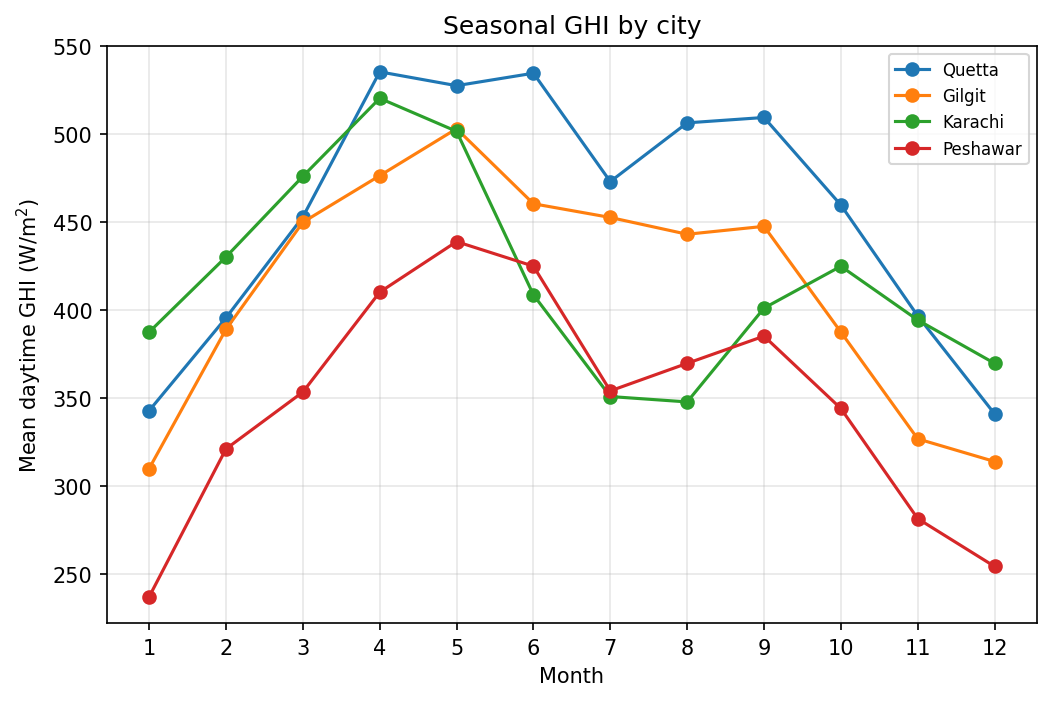
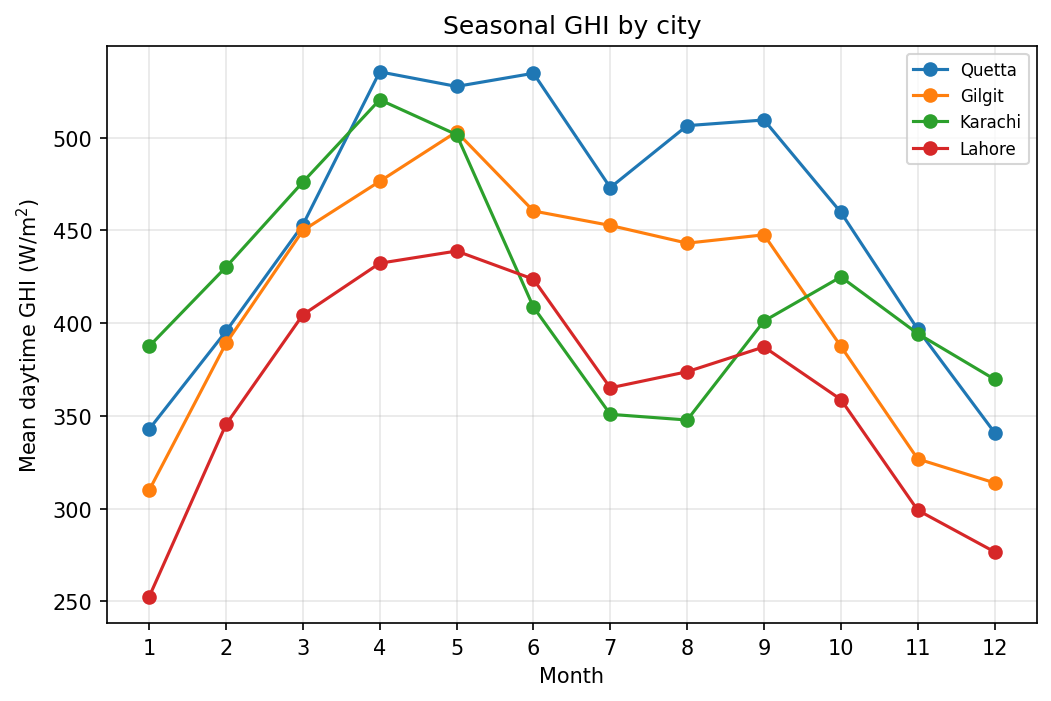
M6: highlight Quetta+Gilgit (cities above Karachi) + report notes
- inter-city figs highlight Quetta/Gilgit (untapped higher-solar candidates above
  the study city) instead of Peshawar; seasonal shows Quetta/Gilgit/Karachi/Lahore
- docs/REPORT_NOTES.md: detailed findings/decisions log for the instructor report

diff --git a/pipelines/figures_part_b_cities.py b/pipelines/figures_part_b_cities.py
@@ -14,7 +14,8 @@ from solarpredict.viz import city_ghi_map, city_ranking_bar, seasonal_ghi_lines
 
 REPORTS = Path("reports")
 FIGDIR = REPORTS / "figures"
-HIGHLIGHT = ("Quetta", "Peshawar")  # sunniest and least-sunny endpoints
+# the two cities above Karachi on solar yield (untapped, higher-solar candidates)
+HIGHLIGHT = ("Quetta", "Gilgit")
 
 
 def main() -> None:
@@ -35,7 +36,7 @@ def main() -> None:
     seasonal_ghi_lines(
         monthly,
         path=FIGDIR / "fig3_seasonal.png",
-        cities=("Quetta", "Gilgit", "Karachi", "Peshawar"),
+        cities=("Quetta", "Gilgit", "Karachi", "Lahore"),
     )
     print(f"figures written to {FIGDIR}")
 

diff --git a/docs/REPORT_NOTES.md b/docs/REPORT_NOTES.md
@@ -1,0 +1,154 @@
+# Report source notes — Solar Resource Prediction
+
+Working notes for the instructor report (M7). Raw material and decisions, not the
+final prose. Numbers are from the committed runs (`reports/*.csv`, `reports/figures/`).
+All results come from real Open-Meteo data and actual model runs — no fabricated
+numbers.
+
+## What the paper is (from the meeting transcript)
+
+Conference paper, "Solar Resource Prediction." The student team supplies
+results/figures; the instructor writes the prose. Two contributions:
+
+1. Compare the predictive performance of several ML/AI models for estimating solar
+   power generation potential (predict GHI, convert to power).
+2. Rank locations by solar suitability and identify good sites for solar-powered EV
+   charging stations.
+
+The instructor decided AI *is* the method (the "is AI needed?" debate is closed).
+Baselines stay only as the standard skill-score reference. Single city, multiple
+sites, with a city chosen where variation exists. Data from Open-Meteo. No
+plagiarism / no fabricated results.
+
+## Data
+
+- Source: Open-Meteo Historical Archive (ERA5 reanalysis), hourly, free, no key.
+- Variables fetched: GHI (shortwave_radiation) + temperature, humidity, wind, cloud
+  cover (5 "modeling" variables). 5 years per location (≈43,824 hourly rows).
+- Resolution ≈ 9–25 km. This matters for within-city work (below).
+- 7 candidate cities: Islamabad, Lahore, Karachi, Peshawar, Multan, Quetta, Gilgit.
+
+## Part A — model benchmark (hour-ahead GHI, Karachi, 5 years)
+
+Test = last 20% (chronological). Metrics computed daytime-only (night zeros masked).
+Headline metric = forecast skill score vs smart (clear-sky) persistence.
+Full table: `reports/benchmark_karachi.csv`. Figures 1, 5, 7.
+
+| model | tier | RMSE | R² | skill |
+|---|---|---|---|---|
+| extra_trees | classical ML | 41.6 | 0.976 | **+0.40** |
+| catboost | classical ML | 41.8 | 0.976 | +0.40 |
+| xgboost | classical ML | 43.3 | 0.974 | +0.38 |
+| lightgbm | classical ML | 44.0 | 0.973 | +0.37 |
+| random_forest | classical ML | 44.5 | 0.973 | +0.36 |
+| nhits | deep learning | 46.1 | 0.971 | +0.34 |
+| chronos2 | foundation model | 48.6 | 0.967 | +0.30 |
+| lstm | deep learning | 52.0 | 0.963 | +0.25 |
+| ridge | classical ML | 52.2 | 0.962 | +0.25 |
+| smart_persistence | baseline (ref) | 69.6 | 0.933 | 0.00 |
+| climatology | baseline | 82.3 | 0.906 | −0.18 |
+| persistence | baseline | 138.2 | 0.736 | −0.99 |
+
+Findings / talking points:
+- Tree ensembles lead; the modern NHITS is close behind; the zero-shot Chronos-2
+  foundation model is competitive without any training on this site.
+- ML cuts hour-ahead error ~40% vs the best naive method — concrete answer to "does
+  AI help?": yes, clearly, at this horizon.
+- Why so predictable: most of the signal is the deterministic solar geometry (fed in
+  as clear-sky GHI + cyclical time); 1 hour ahead clouds persist, so the models are
+  essentially "smart persistence plus learned corrections," and they remove the
+  clear-sky model's ~−43 W/m² bias (see MBE column).
+- Honest scope: this is the easy horizon. Day-ahead skill would be much lower
+  (probably ~0.1–0.2). State this so it isn't oversold.
+
+### Data-efficiency experiment (the scarce-data story) — figure 8
+
+Fixed test, training size varied 1 month → 4 years. `reports/data_efficiency_karachi.csv`.
+
+Skill by training size (Karachi):
+
+| model | 1mo | 3mo | 6mo | 1y | 4y |
+|---|---|---|---|---|---|
+| chronos2 (zero-shot) | 0.30 | 0.30 | 0.30 | 0.30 | 0.30 |
+| nhits | 0.20 | 0.27 | 0.30 | 0.33 | 0.34 |
+| extra_trees | 0.16 | 0.19 | 0.23 | 0.39 | 0.41 |
+| xgboost | −0.12 | 0.11 | 0.18 | 0.36 | 0.38 |
+
+- Chronos-2 is flat (it never trains) and best at 1–3 months; xgboost is *worse than
+  the naive baseline* at 1 month.
+- Cross-over at ~6–12 months: trained models overtake only once they have a year+.
+- Conclusion: foundation/deep models are the better choice when data is scarce; trees
+  win with plenty. This is the second main contribution.
+
+## Part B — siting
+
+### City choice
+Karachi is the data-chosen city for the within-city study because it has the most
+intra-city GHI spread (it splits into ~16 ERA5 cells with a coastal→inland gradient;
+Lahore is nearly flat). See `select-city` / earlier checks. Intra-city differences
+are real but small (~3%) — honest framing required.
+
+### Inter-city comparison — figures 2, 3, 4. `reports/city_summary.csv`
+Annual GHI yield (kWh/m²/yr), 5-year mean:
+
+| city | yield | daytime GHI (W/m²) | seasonality CV |
+|---|---|---|---|
+| Quetta | 2174 | 463 | 0.25 |
+| Gilgit | 1960 | 421 | 0.28 |
+| Karachi | 1950 | 418 | **0.18** (most consistent) |
+| Multan | 1793 | 383 | 0.23 |
+| Lahore | 1696 | 369 | 0.26 |
+| Islamabad | 1692 | 365 | 0.29 |
+| Peshawar | 1650 | 355 | 0.30 |
+
+Talking points:
+- Quetta and Gilgit sit *above* our study city (Karachi) on solar resource — they are
+  the untapped higher-solar candidates. If EV adoption reaches them, they would be
+  even better hosts for solar charging than the coastal cities.
+- Karachi has the lowest seasonality (steadiest year-round solar) — useful for a
+  charging station that needs consistent supply, even though its peak yield is lower
+  than Quetta's.
+- Viability floor: even Pakistan's least-sunny city (Peshawar, 1650) exceeds the
+  national-average yield of Germany/UK (~1000–1100). Solar-EV is viable nationwide.
+- Inter-city spread is large (28% from Quetta to Peshawar) — the real, strong signal,
+  vs the small (~3%) within-city spread.
+
+### Within-Karachi siting — (to build) figures 6 + intra-city heatmap
+- Sample the ~7 km grid over Karachi (16 cells) for a GHI heatmap; map the named
+  districts onto it for the recommended-sites table.
+- Suitability index: blend mean/seasonal GHI, PSH, low-irradiance (cloud) penalty,
+  and consistency. Northern/inland sites (Gadap, SITE) rank highest, coastal (Clifton,
+  DHA) lowest.
+- Convert GHI → power with a fixed PV model so the gradient reads as annual energy.
+
+## Methodology (for the methods section)
+- Forecast skill score S = 1 − RMSE_model / RMSE_reference, reference = smart
+  (clear-sky) persistence (persist the clear-sky index, rescale by next-hour clear-sky
+  GHI). Standard in solar forecasting; avoids the misleading high R² that night zeros
+  produce.
+- Night mask: drop hours with solar zenith ≳ 90° (clear-sky GHI ≈ 0) from all metrics.
+- Clear-sky GHI via pvlib (Haurwitz).
+- Strictly chronological train/val/test (no shuffling — that leaks). Context window
+  prepended to the test set so sequence models have history.
+- Leakage discipline: features at t use only lagged GHI/covariates + deterministic
+  terms (clear-sky GHI, cyclical time); no concurrent radiation components.
+- Models: tier-0 persistence/smart-persistence/climatology; tier-1 Ridge, RF,
+  ExtraTrees, XGBoost, LightGBM, CatBoost; tier-2 LSTM + NHITS (neuralforecast,
+  covariate-aware); tier-3 Chronos-2 (Amazon, ~120M-param transformer, zero-shot).
+
+## Figure inventory (reports/figures/)
+- fig1_model_skill / fig1b_model_rmse — model comparison (Part A).
+- fig2_ghi_map — Pakistan city GHI map.
+- fig3_seasonal — seasonal GHI by city.
+- fig4_city_ranking — city solar ranking (Quetta/Gilgit highlighted).
+- fig5_pred_vs_actual — predicted vs actual, best model.
+- fig7_feature_importance — best tree's features.
+- fig8_data_efficiency_skill / fig8b_..._rmse — scarce-data story.
+- fig6 (EV-locations map) + the intra-Karachi heatmap/ranking — to build.
+
+## Caveats / honesty
+- ERA5 is reanalysis at 9–25 km: captures city resource + coastal gradient, not
+  sub-cell microclimate. Within-city differences are genuinely small.
+- Hour-ahead is the easy horizon; do not overstate skill.
+- Reanalysis is not ground truth; a physical sensor (funded, future work) would
+  validate it.